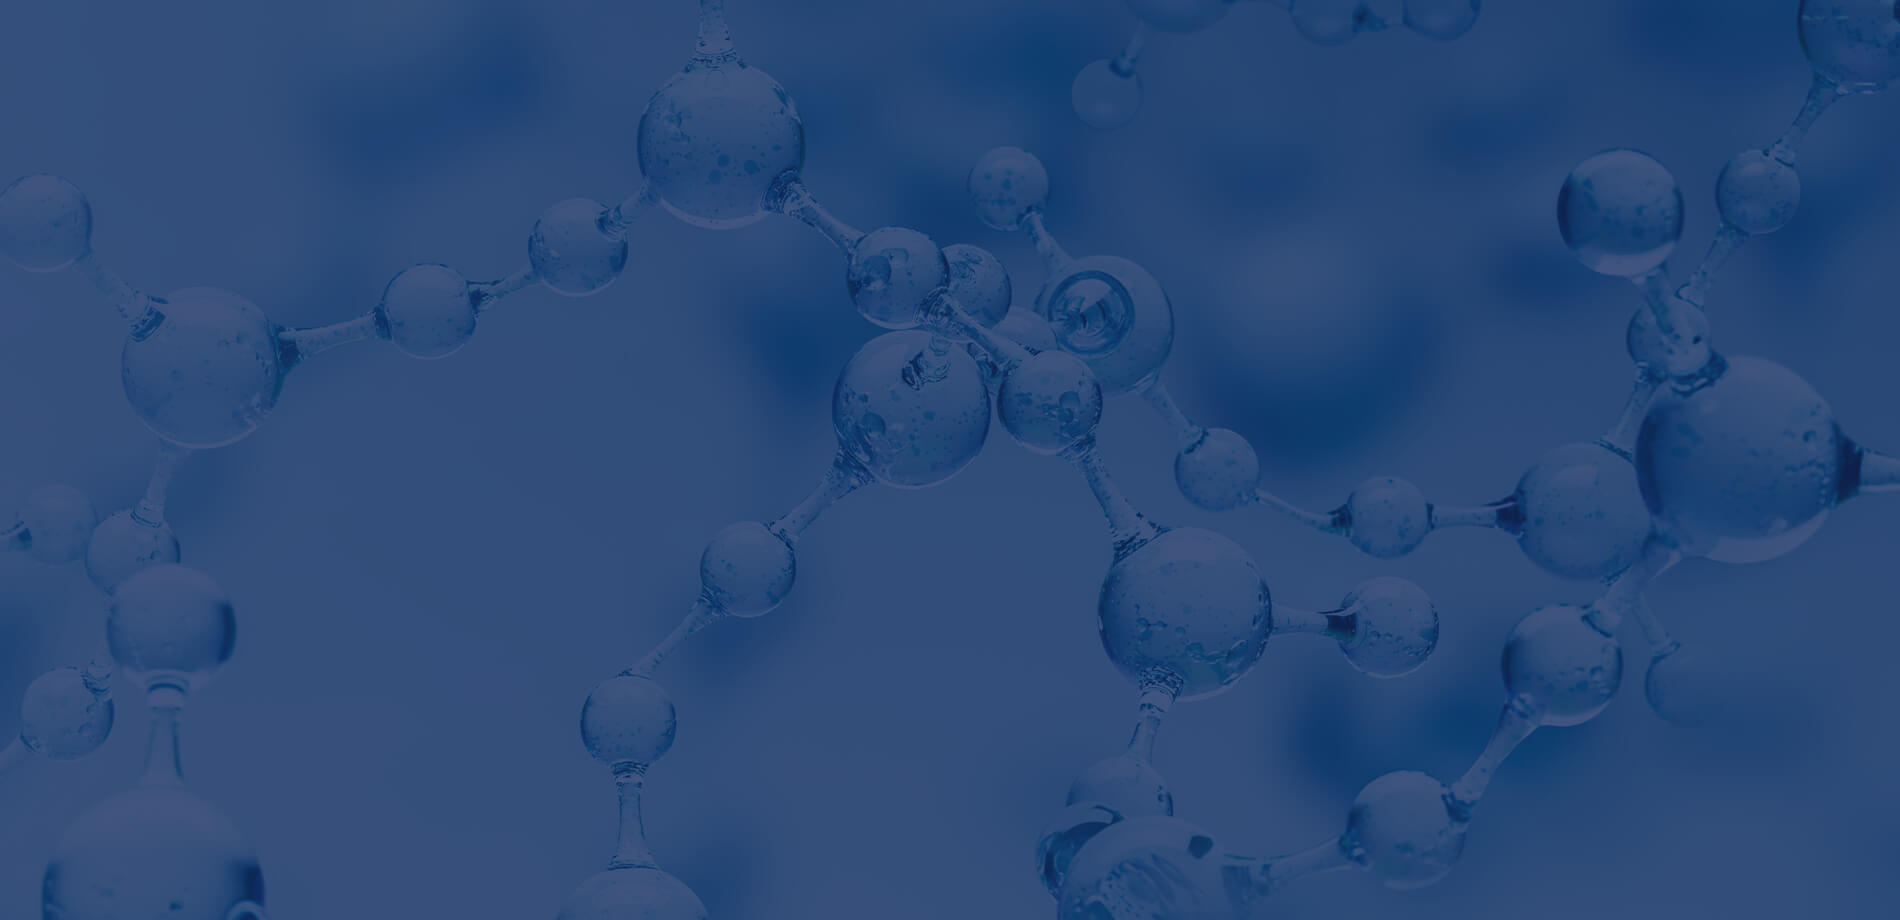
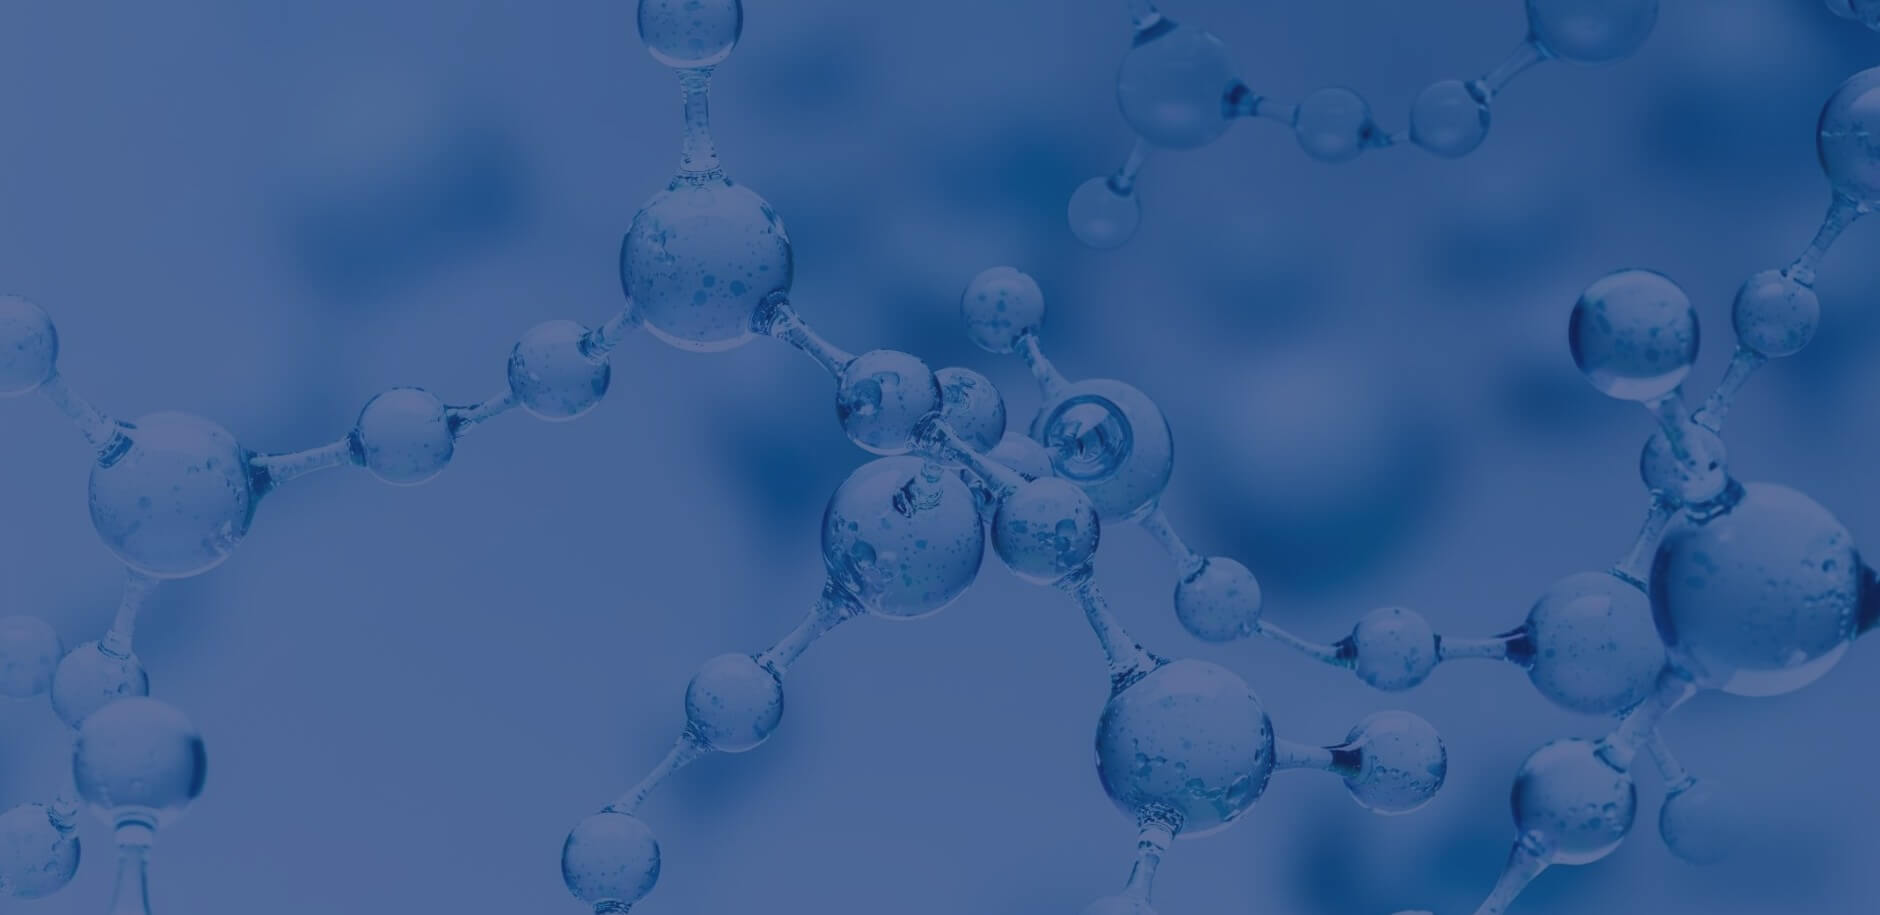
202106091601

diff --git a/bld/static/css/new_header.css b/bld/static/css/new_header.css
@@ -10,9 +10,10 @@ img,table{max-height:100%;max-width:100%;border:0;}
 table{width:100%;border-collapse:collapse;}
 i,em{font-style:normal;}
 sub,sup{display:inline-block;-webkit-transform:scale(.9);-moz-transform:scale(.9);transform:scale(.9);}
-button,input,select,textarea{margin:0;padding:0;outline:none;color:#333;font-size:14px;font-family:sans-serif,Arial;-webkit-appearance:none;-moz-appearance:none;appearance:none;}
+button,input,select,textarea{margin:0;padding:0;outline:none;color:#333;font-size:14px;font-family:sans-serif,Arial;}
 button{cursor:pointer;border:none;}
 textarea{resize:none;}
+input{-webkit-appearance:none;-moz-appearance:none;appearance:none;}
 input::-ms-clear,input::-ms-reveal{display:none;}
 input:-webkit-autofill{-webkit-box-shadow:0 0 0 1000px #fff inset;}
 input::-webkit-input-placeholder{color:#d3e6f6;}

diff --git a/bld/static/css/new_index.css b/bld/static/css/new_index.css
@@ -3,7 +3,6 @@
 .index_bg .head_box{position:absolute;top:0;left:0;z-index:1000;width:100%;min-height:100px;background:transparent;}
 .position_img{position:absolute;z-index:-1;overflow:hidden;width:100%;height:100vh;}
 .position_img>div{position:absolute;width:100%;height:100%;background:no-repeat 50% 50%;background-size:cover;-webkit-animation:scaleImg 40s linear infinite;animation:scaleImg 20s linear infinite;}
-#particles-js{background:rgba(22,49,113,.7);}
 #particles-js,#particles-js canvas{max-height:100vh;min-height:100vh;min-width:320px;}
 .index_txt,.contact_title,.services_con a,.contact_con label input{color:#fff;}
 .index_txt{height:100px;text-align:center;text-shadow:3px 3px 8px rgba(11,80,234,.6);}

diff --git a/bld/index.html b/bld/index.html
@@ -19,7 +19,7 @@
 </head>
 <body>
 <div class="index_bg">
-	<div class="position_img"><div style="background-image:url(./static/img/index/index_bg_2.jpg)"></div></div>
+	<div class="position_img"><div style="background-image:url(./static/img/index/index_bg.jpg)"></div></div>
 	<div id="particles-js"></div>
 
 	<!-- 公共 header -->
@@ -117,7 +117,7 @@ $(document).ready(function(){
 		autoplayHoverPause:true,
 		nav:true,
 		navRewind: true,
-		navText: [ '<img src="./static/img/index/prev.png">', '<img src="./static/img/index/next.png">' ],
+		navText: [ '<img src="./static/img/index/prev.png" alt="prev">', '<img src="./static/img/index/next.png" alt="next">' ],
 		//dots:true,
 		items:1
 	});
